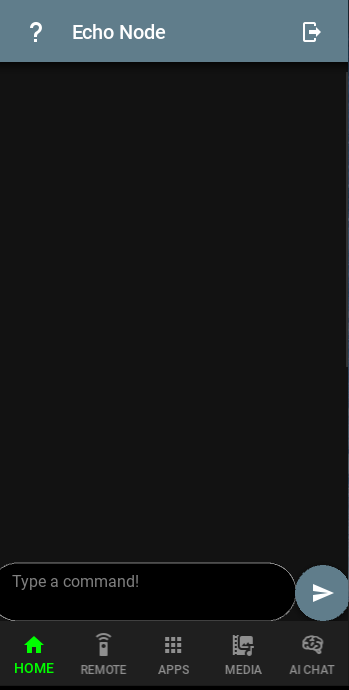
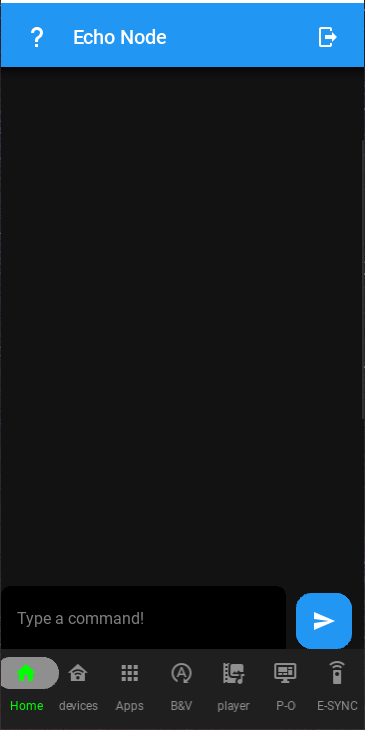
update mobile page and guide

Changed region(s): [[0.0, 0.0, 1.0, 1.0]]

diff --git a/UserGuide.html b/UserGuide.html
@@ -151,13 +151,54 @@
                         <span style="color: red;">this feature is available only for (Elite) rank</span> </p> 
                     </div>  
                     <img class="AndroidApp" src="img/main menu.png">
-                        <div class="MainAnd">
-                            <h5>Main Menu</h5>
-                            <p>Echo Node Android app is all you need to take action from your mibile to pc remotely via simple instruction are listed <br>
-                            in help point in the app show you if your pc is online or not via simple notification icon <br>
-                            The pc app is always interacting with your commands.
-                            </p>
-                        </div>
+                    <div class="MainAnd">
+                        <h5>Main Window</h5>
+                        <p>Echo Node Android app is all you need to take action from your mibile to pc remotely via simple instruction are listed <br>
+                            in help point the pc app is always interacting with your commands</p> 
+                    </div>
+                    
+                    <img class="AndroidApp" src="img/devices control.png">
+                    <div class="MainAnd">
+                        <h5>Devices control</h5>
+                        <p>Here you can define your predefined devices in Echo Assistant and cntrol it from mobile application</p> 
+                    </div>
+            
+                    <img class="AndroidApp" src="img/apps control.png">
+                    <div class="MainAnd">
+                        <h5>Apps control</h5>
+                        <p>Here you can just type any application name and open/close it if installed in your desktop</p> 
+                    </div>
+            
+                    <img class="AndroidApp" src="img/multimedia control.png">
+                    <div class="MainAnd">
+                        <h5>multimedia control</h5>
+                        <p>Here you can adjust desktop brightness or volume remotely easely and quickly</p> 
+                    </div>
+            
+                    <img class="AndroidApp" src="img/playing media.png">
+                    <div class="MainAnd">
+                        <h5>Media player</h5>
+                        <p>Here you can type any media name and choose language and media will start playing automatically in your desktop</p> 
+                    </div>
+            
+                    <img class="AndroidApp" src="img/multimedia control.png">
+                    <div class="MainAnd">
+                        <h5>multimedia control</h5>
+                        <p>Here you can adjust desktop brightness or volume remotely easely and quickly</p> 
+                    </div>
+            
+                    <img class="AndroidApp" src="img/control state.png">
+                    <div class="MainAnd">
+                        <h5>Power options</h5>
+                        <p>Here you cal control your desktop power options remotely easely and quickly</p> 
+                    </div>
+            
+                    <img class="AndroidApp" src="img/echosync.png">
+                    <div class="MainAnd">
+                        <h5>Echo sync control</h5>
+                        <p>Here you can connect to your desktop devices over local network with (Echo sync) and use it too much faster than (Echo verse)</p> 
+                    </div>
+                    
             </div>
         </div>
 

diff --git a/Android.html b/Android.html
@@ -74,7 +74,7 @@
                     <h1 class="display-3 text-white mb-3 animated slideInDown">Mobile Application</h1>
                     <nav aria-label="breadcrumb">
                         <ol class="breadcrumb justify-content-center text-uppercase">
-                            <!-- <li class="breadcrumb-item"><a href="#" target="_blank">Download</a></li> -->
+                            <li class="breadcrumb-item"><a href="https://mega.nz/file/fSo1kCxA#bx3wIc52wBZwmyX1zQAN3pYMDpcXV7Uvh7J9Uq9uJ94" target="_blank">Download v1.2.1</a></li>
                             <li class="breadcrumb-item"><a href="UserGuide.html">Application guide</a></li>
                         </ol>
                     </nav>
@@ -101,13 +101,55 @@
                <span style="color: red;">this feature is available only for (Luxury) rank</span> </p> 
         </div>  
 
-
         <img class="AndroidApp" src="img/main menu.png">
         <div class="MainAnd">
             <h5>Main Window</h5>
             <p>Echo Node Android app is all you need to take action from your mibile to pc remotely via simple instruction are listed <br>
                 in help point the pc app is always interacting with your commands</p> 
-        </div>    
+        </div>
+        
+        <img class="AndroidApp" src="img/devices control.png">
+        <div class="MainAnd">
+            <h5>Devices control</h5>
+            <p>Here you can define your predefined devices in Echo Assistant and cntrol it from mobile application</p> 
+        </div>
+
+        <img class="AndroidApp" src="img/apps control.png">
+        <div class="MainAnd">
+            <h5>Apps control</h5>
+            <p>Here you can just type any application name and open/close it if installed in your desktop</p> 
+        </div>
+
+        <img class="AndroidApp" src="img/multimedia control.png">
+        <div class="MainAnd">
+            <h5>multimedia control</h5>
+            <p>Here you can adjust desktop brightness or volume remotely easely and quickly</p> 
+        </div>
+
+        <img class="AndroidApp" src="img/playing media.png">
+        <div class="MainAnd">
+            <h5>Media player</h5>
+            <p>Here you can type any media name and choose language and media will start playing automatically in your desktop</p> 
+        </div>
+
+        <img class="AndroidApp" src="img/multimedia control.png">
+        <div class="MainAnd">
+            <h5>multimedia control</h5>
+            <p>Here you can adjust desktop brightness or volume remotely easely and quickly</p> 
+        </div>
+
+        <img class="AndroidApp" src="img/control state.png">
+        <div class="MainAnd">
+            <h5>Power options</h5>
+            <p>Here you cal control your desktop power options remotely easely and quickly</p> 
+        </div>
+
+        <img class="AndroidApp" src="img/echosync.png">
+        <div class="MainAnd">
+            <h5>Echo sync control</h5>
+            <p>Here you can connect to your desktop devices over local network with (Echo sync) and use it too much faster than (Echo verse)</p> 
+        </div>
+        
 </div>
 
         <!-- Back to Top -->
